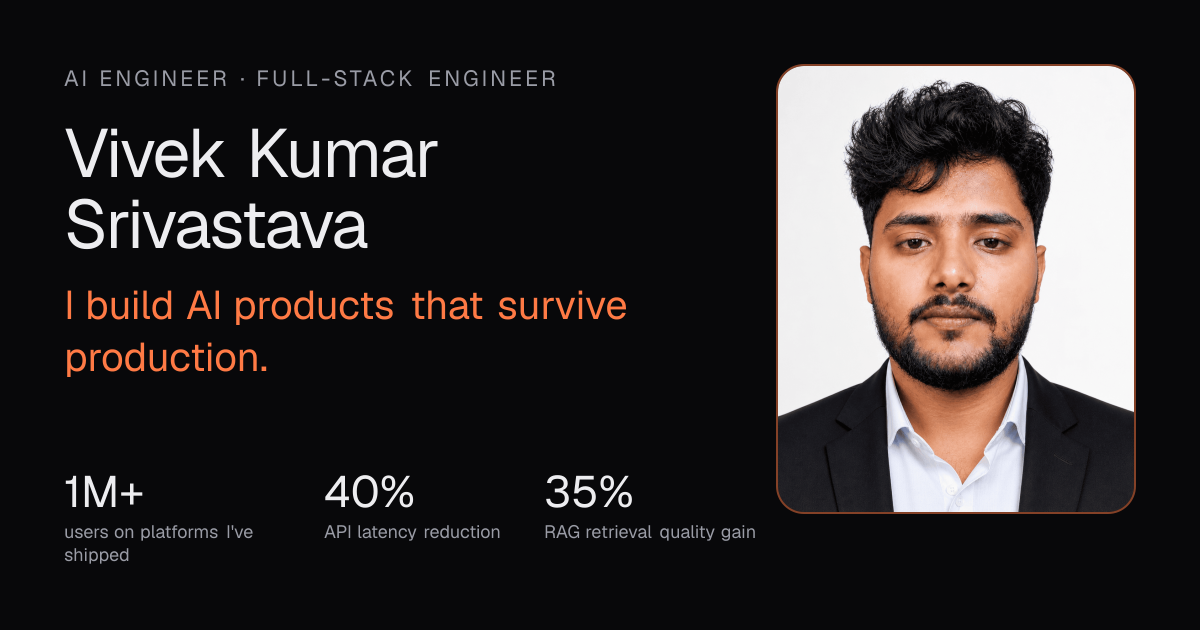
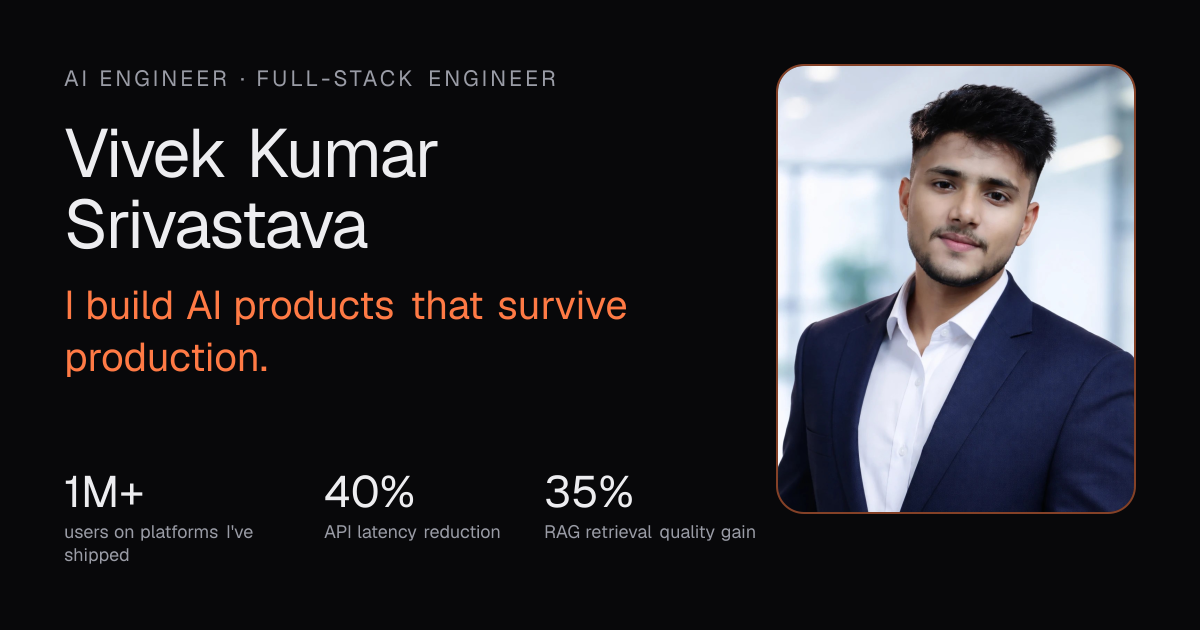
Update profile photo and use full name Vivek Kumar Srivastava
- New portrait (public/vivek.webp) in the hero and social preview image
- Nav and page titles show the full name

Changed region(s): [[0.6475, 0.0905, 0.9558, 0.8143], [0.6475, 0.3317, 0.6783, 0.3921]]

diff --git a/src/data/profile.ts b/src/data/profile.ts
@@ -7,7 +7,7 @@
 export const site = {
   url: process.env.NEXT_PUBLIC_SITE_URL ?? "https://viveksrivastavasde.github.io",
   name: "Vivek Kumar Srivastava",
-  shortName: "Vivek Srivastava",
+  shortName: "Vivek Kumar Srivastava",
   title: "Vivek Kumar Srivastava — AI Engineer & Full-Stack Engineer",
   description:
     "AI Engineer and Senior Full-Stack Engineer with 5+ years shipping production GenAI (RAG, LangGraph agents, LLM automation) and high-scale platforms serving 1M+ users. Open to roles in Europe, the UK, US, UAE and remote.",
@@ -43,7 +43,7 @@ export const person = {
   location: "India",
   availability: "Open to relocation & remote — Switzerland, Germany, Netherlands, Luxembourg, UK, US, UAE",
   email: "vivekkumarsrivastava877@gmail.com",
-  photo: "/vivek.png",
+  photo: "/vivek.webp",
   resumePdf: "/Vivek_Kumar_Srivastava_Resume.pdf",
   languages: ["English (Professional)", "Hindi (Native)", "Arabic (Basic)"],
   socials: {

diff --git a/src/components/Nav.tsx b/src/components/Nav.tsx
@@ -35,7 +35,7 @@ export function Nav() {
           <span className="grid h-7 w-7 place-items-center rounded-lg bg-fg font-mono text-[13px] font-bold text-bg transition-transform group-hover:rotate-6">
             V
           </span>
-          <span className="hidden sm:inline">Vivek Srivastava</span>
+          <span className="hidden sm:inline">Vivek Kumar Srivastava</span>
         </Link>
 
         <ul className="hidden items-center gap-1 md:flex">

diff --git a/src/components/Hero.tsx b/src/components/Hero.tsx
@@ -133,8 +133,8 @@ export function Hero() {
             <Image
               src={person.photo}
               alt="Portrait of Vivek Kumar Srivastava"
-              width={1254}
-              height={1254}
+              width={1024}
+              height={1536}
               priority
               sizes="(min-width: 1024px) 420px, 90vw"
               className="aspect-[4/5] w-full object-cover object-top"

diff --git a/README.md b/README.md
@@ -39,7 +39,7 @@ npm run build && npm start   # production check
 | Projects (add `github` / `live` links) | `projects` |
 | Testimonials (section is hidden while empty) | `testimonials` |
 | Blog posts | add a `.md` file to `content/blog/` (front-matter: title, description, date, tags, draft) |
-| Photo | replace `public/vivek.png` |
+| Photo | replace `public/vivek.webp` (portrait; also regenerate `public/og.png`) |
 | Resume PDF | replace `public/Vivek_Kumar_Srivastava_Resume.pdf` |
 | Colours / fonts | tokens in `src/app/globals.css` (`@theme`) |
 
